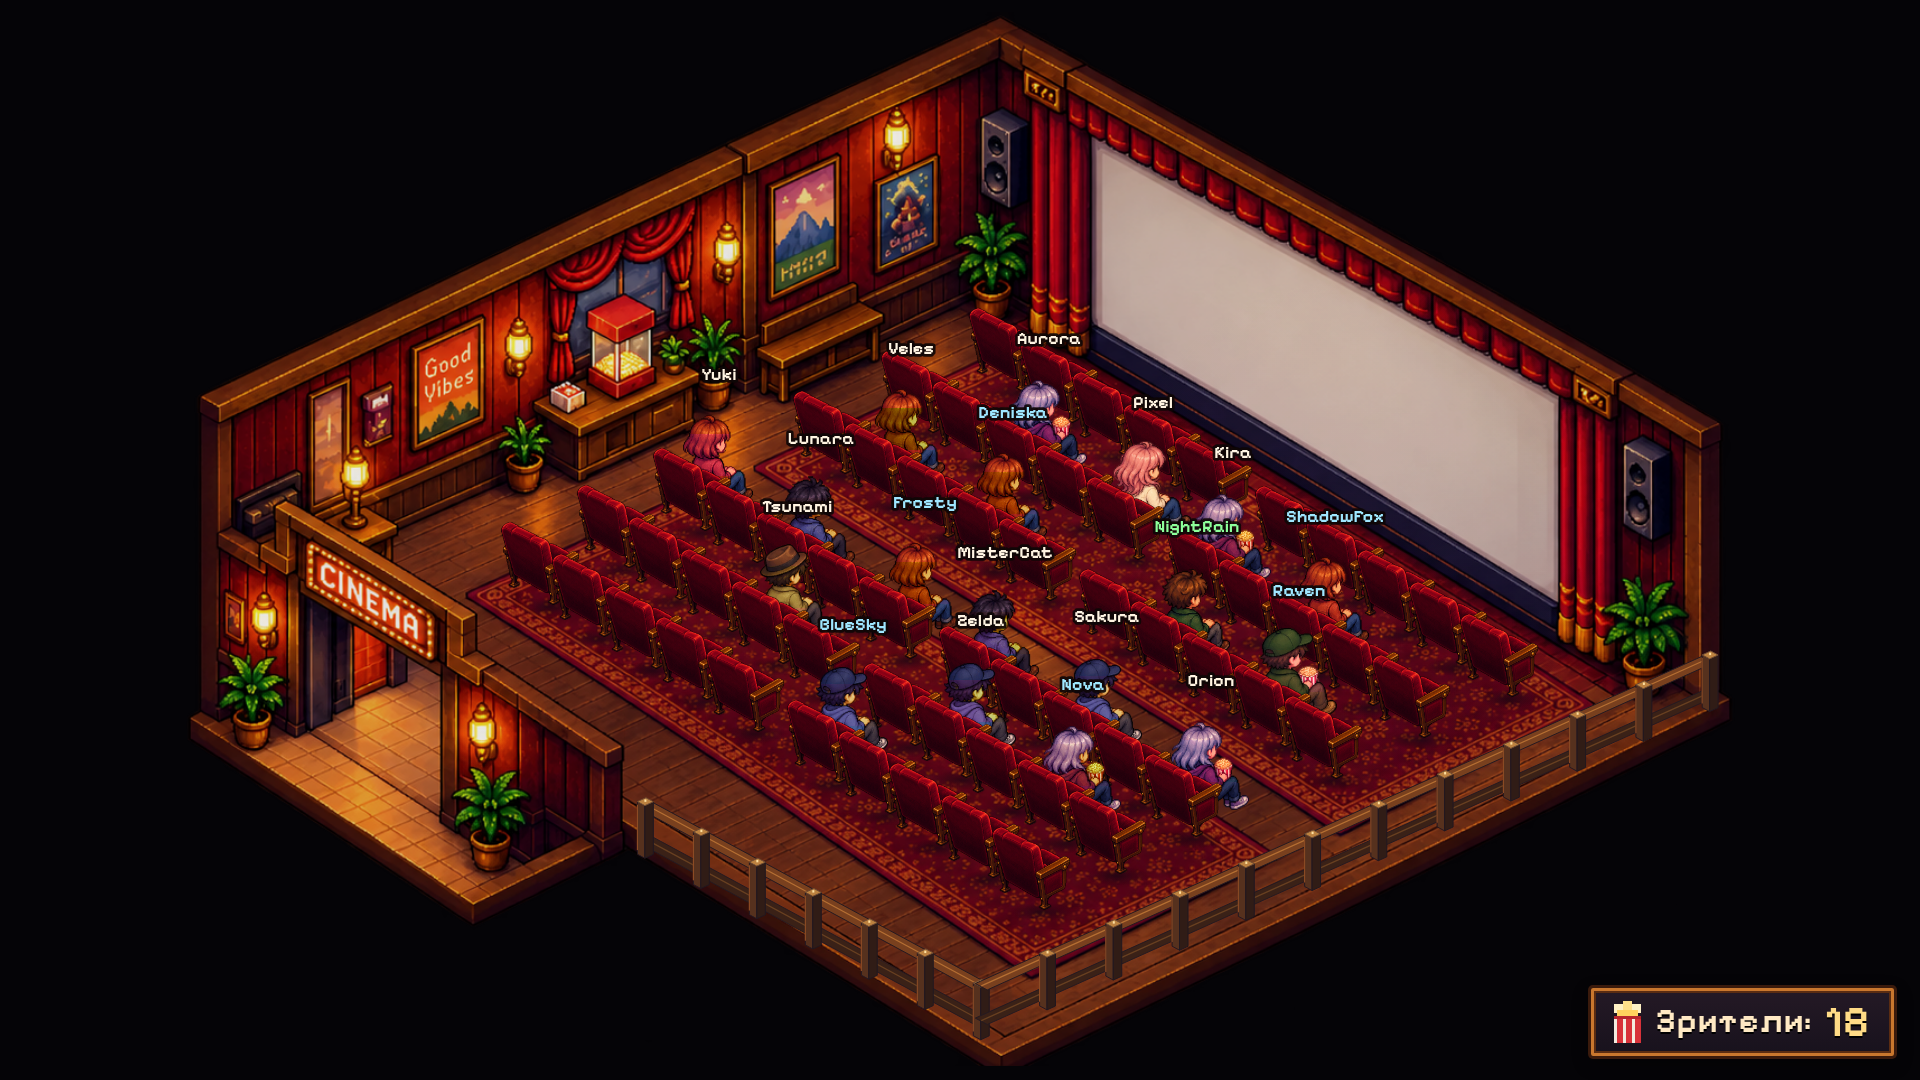
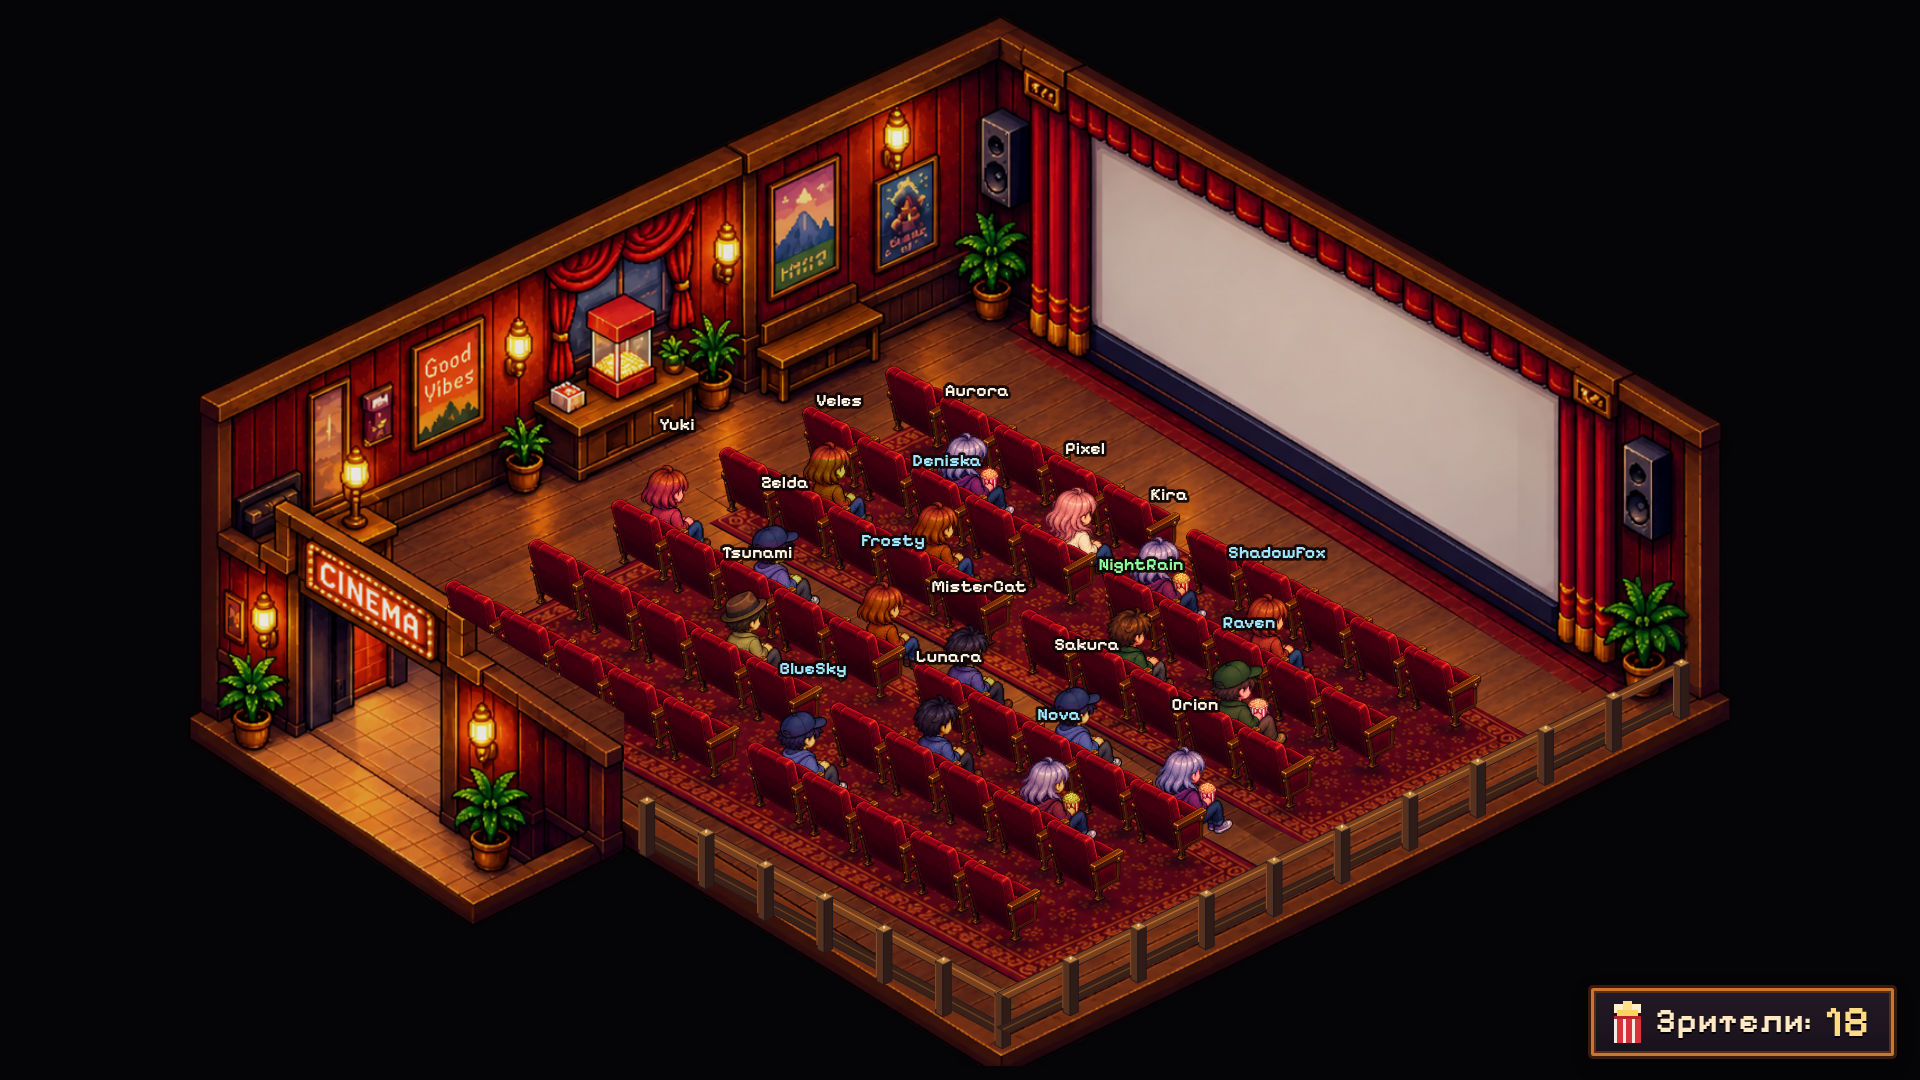
Unify floor perspective for rugs, seats and railings

Changed region(s): [[0.2188, 0.275, 0.9062, 0.9778]]

diff --git a/js/layout.js b/js/layout.js
@@ -33,7 +33,7 @@
     DOOR_X0: 1.2,
     DOOR_X1: 3.5,
     DOOR_H: 3.0,
-    ROWS: [4.2, 6.3, 8.4, 10.5, 12.6, 14.7],
+    ROWS: [4.1, 6.1, 8.1, 10.7, 12.7, 14.7],
     BLOCKS: [
       { x0: 2.65, n: 5 },
       { x0: 11.0, n: 5 }
@@ -42,8 +42,17 @@
     WALK_OFFSET: 0.6 // walkway lies this far in front of a seat (toward the screen)
   };
 
+  // Three surveyed floor corners define one affine plane. Every floor object
+  // uses these two basis vectors, so parallel world edges stay parallel on screen.
+  L.FLOOR = { origin: [879, 274], x: [639, 344], y: [-645, 313] };
+  L.floorArt = function (x, y) {
+    const f = L.FLOOR;
+    return [f.origin[0] + x / L.W * f.x[0] + y / L.D * f.y[0],
+      f.origin[1] + x / L.W * f.x[1] + y / L.D * f.y[1]];
+  };
   L.project = function (x, y, z = 0) {
-    return { x: L.OX + x * 18.55 - y * 21.274, y: L.OY + x * 10.04 + y * 9.751 - z * L.ZS };
+    const p = L.artPoint(...L.floorArt(x, y));
+    return { x: p.x, y: p.y - z * L.ZS };
   };
 
   // All overlay geometry is measured in the unmodified room artwork.
@@ -51,12 +60,19 @@
     return { x: 12 + (x * 936) / 1672, y: 6 + (y * 527) / 941 };
   };
   L.fromArt = function (x, y) {
-    const p = L.artPoint(x, y),
-      sx = p.x - L.OX,
-      sy = p.y - L.OY;
-    const det = 18.55 * 9.751 + 21.274 * 10.04;
-    return { x: (sx * 9.751 + sy * 21.274) / det, y: (sy * 18.55 - sx * 10.04) / det };
+    const f = L.FLOOR, sx = x - f.origin[0], sy = y - f.origin[1];
+    const det = f.x[0] * f.y[1] - f.x[1] * f.y[0];
+    return { x: (sx * f.y[1] - sy * f.y[0]) / det * L.W,
+      y: (sy * f.x[0] - sx * f.x[1]) / det * L.D };
   };
+  L.RUGS = [
+    { x0: 1.6, x1: 18.3, y0: 3.2, y1: 8.6,
+      source: [[883,299],[1403,618],[1176,733],[653,410]] },
+    { x0: 1.6, x1: 18.3, y0: 9.7, y1: 15.5,
+      source: [[596,426],[1118,751],[899,862],[395,520]] }
+  ];
+  L.rugCorners = (r) => [[r.x0,r.y0],[r.x1,r.y0],[r.x1,r.y1],[r.x0,r.y1]]
+    .map(([x,y]) => L.floorArt(x,y));
   L.ART_GEOMETRY = {
     gateLeft: [269, 641],
     gateRight: [373, 700],
@@ -85,14 +101,8 @@
       [269, 544],
       [224, 516]
     ],
-    railFront: [
-      [555, 752],
-      [855, 914]
-    ],
-    railRight: [
-      [1506, 621],
-      [855, 914]
-    ]
+    railFront: [L.floorArt(9.7, 17.15), L.floorArt(19.55, 17.15)],
+    railRight: [L.floorArt(19.55, .8), L.floorArt(19.55, 17.15)]
   };
 
   L.artContains = function (polygon, point) {
@@ -112,17 +122,10 @@
     L.artContains(L.ART_GEOMETRY.lintel, point) ||
     (L.artContains(L.ART_GEOMETRY.facade, point) && !L.artContains(L.ART_GEOMETRY.opening, point));
 
-  // Seat rows follow the painted carpet axes, rather than the approximate
-  // perimeter projection. Both seating blocks share one straight row direction.
+  // Seats share the same plane as the rugs and railings. The first row is
+  // 4.1 tiles from the screen wall; the carpet starts 3.2 tiles from it.
   L.seatPoint = function (row, nominalX, forward = 0) {
-    const rear = row < 3;
-    const origin = rear ? { x: 883, y: 299 } : { x: 596, y: 426 };
-    const depth = rear ? { x: -231, y: 108 } : { x: -200, y: 96 };
-    const u = 0.08 + ((nominalX - 2.65) / (17 - 2.65)) * 0.84;
-    const v = 0.16 + (row % 3) * 0.34 - (forward / 2.1) * 0.34;
-    const artX = origin.x + u * 522 + v * depth.x;
-    const artY = origin.y + u * 325 + v * depth.y;
-    return L.fromArt(artX, artY);
+    return { x: nominalX, y: L.ROWS[row] - forward };
   };
 
   const gateLeft = L.fromArt(...L.ART_GEOMETRY.gateLeft);

diff --git a/js/art.js b/js/art.js
@@ -5,6 +5,7 @@
   const A = (VC.Art = { images: {}, ready: null, available: false });
   const sources = {
     room: 'assets/art/cinema-room.png',
+    floor: 'assets/art/cinema-floor.png',
     chair: 'assets/art/cinema-chair.png',
     viewers: 'assets/art/viewers.png',
     viewersExtra: 'assets/art/viewers-extra.png'
@@ -80,6 +81,47 @@
     c.height = h;
     return c;
   }
+  // Resample the existing woven artwork onto exact world rectangles once.
+  // The clean floor is used only beneath the old rug footprints; the room,
+  // facade, lettering and lighting outside those footprints remain original.
+  A.floor = function (ctx) {
+    const L = VC.Layout;
+    ctx.save();
+    ctx.translate(24, 12);
+    ctx.scale(1872 / 1672, 1054 / 941);
+    function path(points) {
+      ctx.beginPath();
+      points.forEach(([x,y],i) => i ? ctx.lineTo(x,y) : ctx.moveTo(x,y));
+      ctx.closePath();
+    }
+    for (const rug of L.RUGS) {
+      const center = rug.source.reduce((p,q) => [p[0]+q[0]/4,p[1]+q[1]/4],[0,0]);
+      ctx.save();
+      path(rug.source.map(p => p.map((v,i) => center[i]+(v-center[i])*1.025)));
+      ctx.clip();
+      ctx.drawImage(A.images.floor,0,0,1672,941);
+      ctx.restore();
+    }
+    function triangle(source, target) {
+      const [s,p,q] = source, [t,u,v] = target;
+      const px=p[0]-s[0], py=p[1]-s[1], qx=q[0]-s[0], qy=q[1]-s[1];
+      const ux=u[0]-t[0], uy=u[1]-t[1], vx=v[0]-t[0], vy=v[1]-t[1];
+      const det=px*qy-py*qx;
+      const a=(ux*qy-vx*py)/det, c=(vx*px-ux*qx)/det;
+      const b=(uy*qy-vy*py)/det, d=(vy*px-uy*qx)/det;
+      ctx.save();
+      path(target); ctx.clip();
+      ctx.transform(a,b,c,d,t[0]-a*s[0]-c*s[1],t[1]-b*s[0]-d*s[1]);
+      ctx.drawImage(A.images.room,0,0);
+      ctx.restore();
+    }
+    for (const rug of L.RUGS) {
+      const target=L.rugCorners(rug);
+      for (const ids of [[0,1,2],[0,2,3]])
+        triangle(ids.map(i=>rug.source[i]),ids.map(i=>target[i]));
+    }
+    ctx.restore();
+  };
   A.scene = function () {
     const L = VC.Layout,
       bg = canvas(1920, 1080),
@@ -92,6 +134,7 @@
     ctx.filter = 'brightness(.9) saturate(.94)';
     // Preserve the original fine detail: no low-resolution intermediate canvas.
     ctx.drawImage(A.images.room, 24, 12, 1872, 1054);
+    A.floor(ctx);
     const F = L.artPoint;
     function polygon(context, points) {
       points.forEach(([x, y], i) => {

diff --git a/tests/run_tests.py b/tests/run_tests.py
@@ -370,8 +370,30 @@ def main():
             });
         }""")
         check('15. all six chair rows are straight and aligned with the painted floor',
-              len(geometry)==6 and all(31.5 < r['angle'] < 32.5 and r['deviation'] < .65 for r in geometry),
+              len(geometry)==6 and all(28.0 < r['angle'] < 28.6 and r['deviation'] < .65 for r in geometry),
               json.dumps(geometry))
+        plane = pg.evaluate("""() => {
+            const L=VC.Layout, parallel=(a,b,axis)=>{
+                const dx=b[0]-a[0],dy=b[1]-a[1];
+                return Math.abs(dx*axis[1]-dy*axis[0])/Math.hypot(dx,dy)/Math.hypot(...axis)<1e-10;
+            };
+            const x=[639,344],y=[-645,313],g=L.ART_GEOMETRY;
+            const rugs=L.RUGS.every(r=>{
+                const c=L.rugCorners(r);
+                return parallel(c[0],c[1],x)&&parallel(c[3],c[2],x)&&
+                    parallel(c[0],c[3],y)&&parallel(c[1],c[2],y);
+            });
+            const rails=parallel(...g.railFront,x)&&parallel(...g.railRight,y);
+            const gaps=__cinema.renderer.seatItems.filter(p=>p.kind==='back').map(p=>{
+                const sx=(p.sx-12)*1672/936-879,sy=(p.sy-6)*941/527-274;
+                return (639*sy-344*sx)/Math.hypot(639,344);
+            });
+            return {rugs,rails,gap:Math.min(...gaps)};
+        }""")
+        check('15b. all four rug edges and both fence runs follow the surveyed floor axes',
+              plane['rugs'] and plane['rails'],json.dumps(plane))
+        check('15c. first chair row has at least 130 source pixels of perpendicular screen-wall clearance',
+              plane['gap']>=130,json.dumps(plane))
         masks = pg.evaluate("""() => {
             const scene=__cinema.renderer.scene, fg=scene.fg.getContext('2d'), header=scene.lintel.getContext('2d');
             const alpha=(ctx,x,y)=>{const p=VC.Layout.artPoint(x,y);return ctx.getImageData(Math.round(p.x*2),Math.round(p.y*2),1,1).data[3];};
@@ -384,7 +406,7 @@ def main():
             VC.Art.railings(ctx);
             const source=caps.map(([x,y])=>[(x+.5-12)*1672/936,(y+.6+1.04*VC.Layout.ZS-6)*941/527]);
             return {count:caps.length,unique:new Set(caps.map(p=>p.map(v=>v.toFixed(4)).join(','))).size,
-                minX:Math.min(...source.map(p=>p[0])),corner:source.filter(p=>Math.hypot(p[0]-855,p[1]-914)<1).length};
+                minX:Math.min(...source.map(p=>p[0])),corner:source.filter(p=>Math.hypot(p[0]-874.19905956,p[1]-922.15943922)<1).length};
         }""")
         check('16b. fence starts beyond entrance wall and has one shared corner post',
               rails['count']==rails['unique'] and rails['minX']>545 and rails['corner']==1, json.dumps(rails))

diff --git a/README.md b/README.md
@@ -2,7 +2,7 @@
 
 Пиксельный изометрический кинотеатр. Каждый зритель, которого Streamer.bot сообщает как присутствующего, получает уникального персонажа, который входит через дверь, находит свободное место, поворачивается к (пустому) экрану и садится. Когда зритель уходит, персонаж встаёт и выходит. Счётчик `Зрители: N` в правом нижнем углу показывает, сколько человек внутри.
 
-Зал рассчитан на **60 зрителей: 6 рядов по 10 кресел**, разделённых центральным проходом. Ряды выровнены по перспективе ковров; между коврами остаётся поперечный проход. Ограждение следует границам пола и начинается за стеной входа. Траектории пересекают нарисованный дверной проём; фасад и перемычка корректно перекрывают проходящих зрителей. Интерьер, кресла и персонажи используют отдельные детализированные графические ассеты: мелкая фактура бархата и дерева, складки штор, локальный янтарный свет, контактные тени и блики на подлокотниках. Крупная процедурная сетка больше не используется как основной арт. Вывеска CINEMA нарисована вместе с фасадом, с чёткими буквами и лампами по контуру. Вход расположен на переднем левом фасаде, обращён к зрителю и оформлен вывеской CINEMA. Экран остаётся пустым.
+Зал рассчитан на **60 зрителей: 6 рядов по 10 кресел**, разделённых центральным проходом. Ковры, ряды и ограждение используют одну аффинную плоскость пола, рассчитанную по трём углам: противоположные края параллельны. Первый ряд отстоит от стены экрана на 4,1 единицы (около 137 пикселей исходной иллюстрации по перпендикуляру); между коврами остаётся поперечный проход. Ограждение следует границам пола и начинается за стеной входа. Траектории пересекают нарисованный дверной проём; фасад и перемычка корректно перекрывают проходящих зрителей. Интерьер, кресла и персонажи используют отдельные детализированные графические ассеты: мелкая фактура бархата и дерева, складки штор, локальный янтарный свет, контактные тени и блики на подлокотниках. Крупная процедурная сетка больше не используется как основной арт. Вывеска CINEMA нарисована вместе с фасадом, с чёткими буквами и лампами по контуру. Вход расположен на переднем левом фасаде, обращён к зрителю и оформлен вывеской CINEMA. Экран остаётся пустым.
 
 ![Кинотеатр и счётчик зрителей](preview.png)
 

diff --git a/assets/art/README.md b/assets/art/README.md
@@ -3,7 +3,10 @@
 Bundled, generated illustrations used by the overlay; no remote image requests at runtime.
 
 - `cinema-room.png`: transparent cutaway interior, illuminated CINEMA facade, wall lights and shadows. No people or seats are baked into this image.
+- `cinema-floor.png`: clean wooden floor restoration, clipped to the old carpet footprints. Existing rug textures are resampled onto exact parallelograms in the shared floor plane.
 - `cinema-chair.png`: transparent velvet chair, sampled into a cached seat layer with a floor contact shadow.
 - `viewers.png`, `viewers-extra.png`: two transparent sheets, each with four character rows and three pose columns (front, walking back, seated).
 
-`js/art.js` contains the source crop rectangles, native canvas caches, facade occlusion mask, lighting positions and stable wardrobe variants. The composition renders in 1920×1080. Movement uses logical coordinates from `js/layout.js`; its `ART_GEOMETRY` anchors, door threshold, fence endpoints and `seatPoint` row calibration follow this room artwork. When replacing an image, update that calibration and inspect both seated and walking viewers, including the entrance and a full hall.
+`js/art.js` contains the source crop rectangles, native canvas caches, facade occlusion mask, lighting positions and stable wardrobe variants. The composition renders in 1920×1080. Movement uses logical coordinates from `js/layout.js`; its `FLOOR` basis (three measured corners), `RUGS` rectangles, `ART_GEOMETRY` anchors, door threshold, fence endpoints and `seatPoint` row calibration follow this room artwork. When replacing an image, update that calibration and inspect both seated and walking viewers, including the entrance and a full hall.
+
+Floor calibration in source-image pixels is `P(x,y) = (879,274) + (x/19.8)·(639,344) + (y/17.4)·(-645,313)`. The three measured corners are `(879,274)`, `(1518,618)` and `(873,931)`. Fence runs keep one world coordinate constant; rugs are world rectangles, and all six seat rows use constant world y. Do not fit those objects independently to the old painted rug edges. The inverse of this same affine matrix converts the existing door anchors into movement coordinates.
